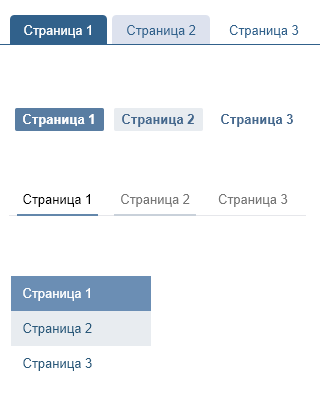
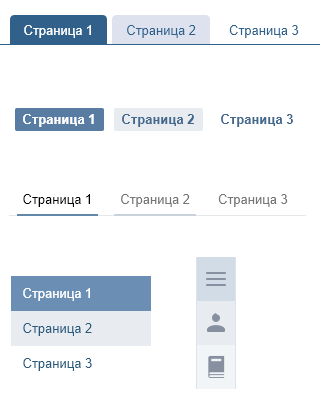
дорисовка меню

Changed region(s): [[0.5938, 0.63, 0.75, 0.78], [0.625, 0.87, 0.7188, 0.96], [0.625, 0.78, 0.7188, 0.84]]

diff --git a/modul/element_tag/element_tag.css b/modul/element_tag/element_tag.css
@@ -578,7 +578,7 @@
 
 /* ---=== ВЫБОР ВНЕШНЕГО ВИДА МЕНЮ СТРАНИЦ [3] PHP12_page_menu_type ===--- */
 .page-menu{
-	background:transparent 10px 5px no-repeat url(../../img/page-menu.png?2);
+	background:transparent 10px 5px no-repeat url(../../img/page-menu.png?3);
 	width:330px;
 	height:50px;
 	padding:5px;
@@ -592,15 +592,15 @@
 .page-menu.type3{background-position-y:-170px}
 .page-menu.type4{
 	display:inline-block;
-	background-position: 0 -266px;
+	background-position: 0 -260px;
 	width:152px;
-	height:120px;
+	height:148px;
 }
 .page-menu.type5{
 	display:inline-block;
-	background-position: 0 -400px;
-	width:152px;
-	height:120px;
+	background-position: -175px -245px;
+	width:73px;
+	height:148px;
 	margin-left:5px;
 }
 .page-menu:not(.sel):hover{border-color:#CBD7E9;opacity:.7}
